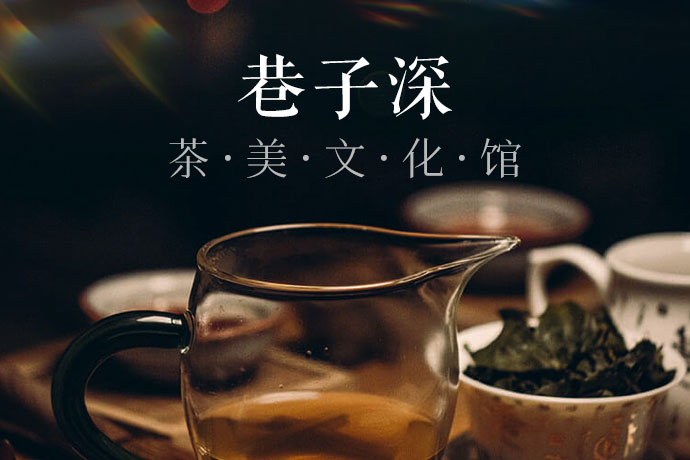
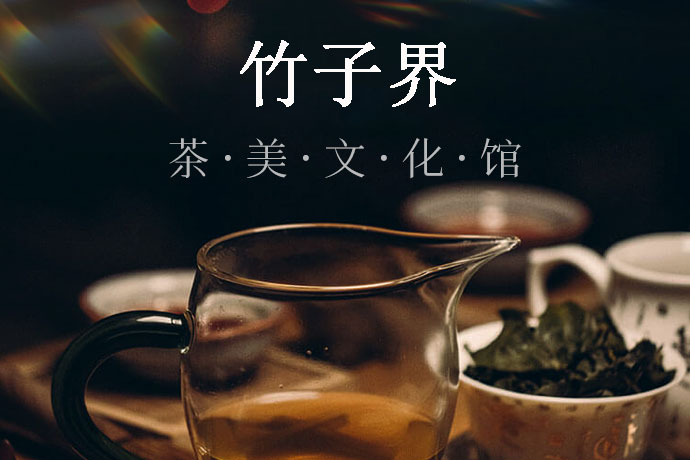
修改了一些细节的样式，换了自己的logo

Changed region(s): [[0.3348, 0.0913, 0.6696, 0.2739]]

diff --git a/components/ahhc-header/ahhc-header.scss b/components/ahhc-header/ahhc-header.scss
@@ -5,7 +5,8 @@
   align-items: center;
   padding: 20rpx;  
   border-bottom: 1px solid var(--themeColor);
+  background: #f6f1ed;
   .logo{
-    height: 70rpx;
+    height: 80rpx;
   }
 }

diff --git a/components/ahhc-product-item/ahhc-product-item.scss b/components/ahhc-product-item/ahhc-product-item.scss
@@ -2,6 +2,7 @@
   width: 330rpx;
   margin: 22.5rpx;
   border: 1px solid var(--lightColor);
+  box-shadow: 0 0 30rpx var(--lightColor);
   .pro-item-img{
     width: 100%;
   }

diff --git a/pages/classify/classify.scss b/pages/classify/classify.scss
@@ -1,6 +1,8 @@
 .cla-img{
   width: 750rpx;
   height: 460rpx;
+  margin-top: 30rpx;
+  border-radius: 20rpx;
 }
 
 .cla-content{
